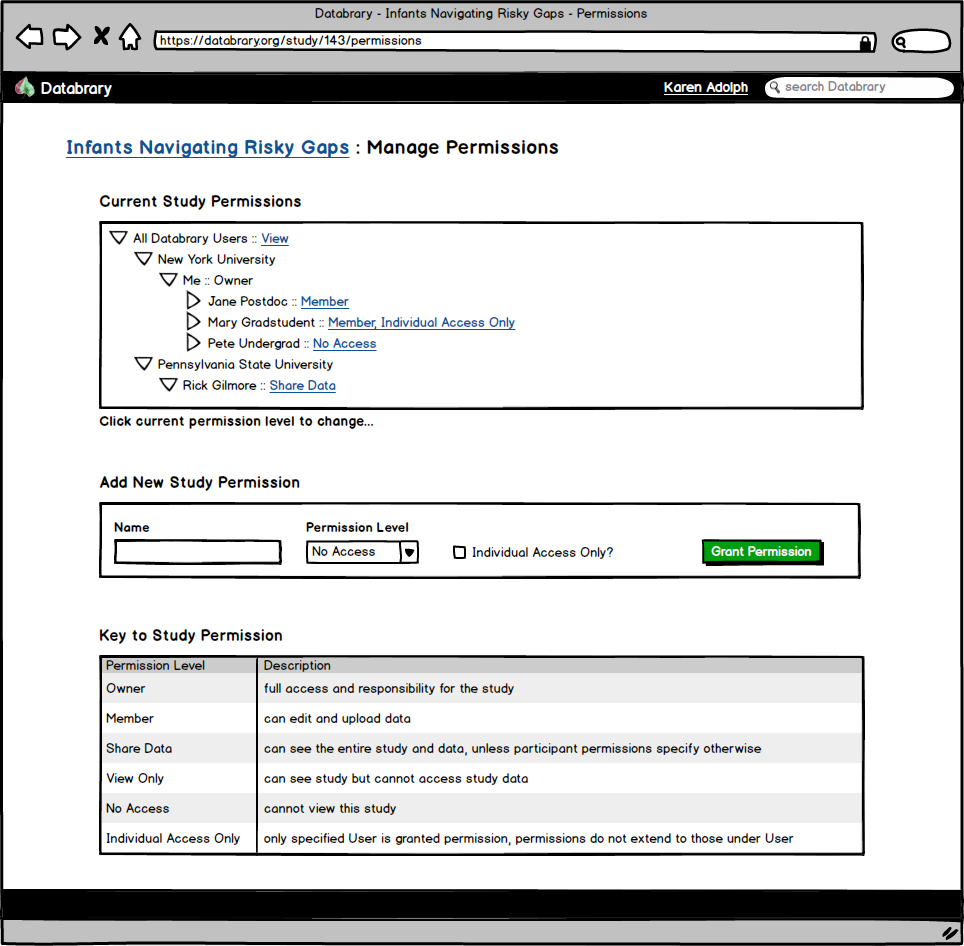
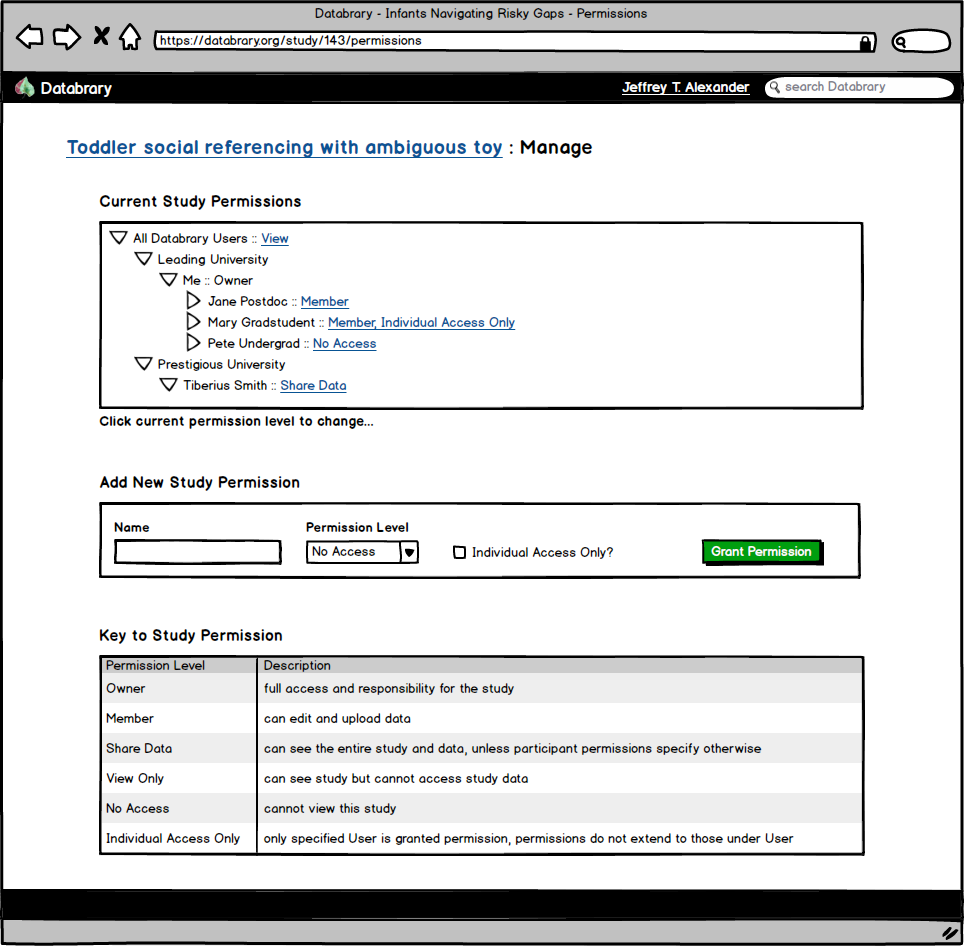
updated images, finished changes to permissions

diff --git a/wireframe-presentation.md b/wireframe-presentation.md
@@ -252,6 +252,17 @@ CREATED : User view : Access management
   - Contribute: create and edit studies I own
   - Admin: delegate all my permissions to edit and authorize users
 - [image: user permissions tree](./user-permissions-management-tree.png)
-- [ ] change key and make permissions two columns, as above
+- [x] change key and make permissions two columns, as above
 
 -------------------------------------------------------------------------------
+
+### Roles:
+- Suzanne Q. Researcher: logs in and sees activity
+- Henry Jones:           investigator sharing data in Suzy Q's dashboard
+                         investigator whose studies show up in search results
+
+- Jeffrey T. Investigator: investigator sharing data set "Toddler social referencing with ambiguous toy"
+                           investigator managing permissions
+- Tiberius Smith:          commenter on JT Investigator's data set
+
+
